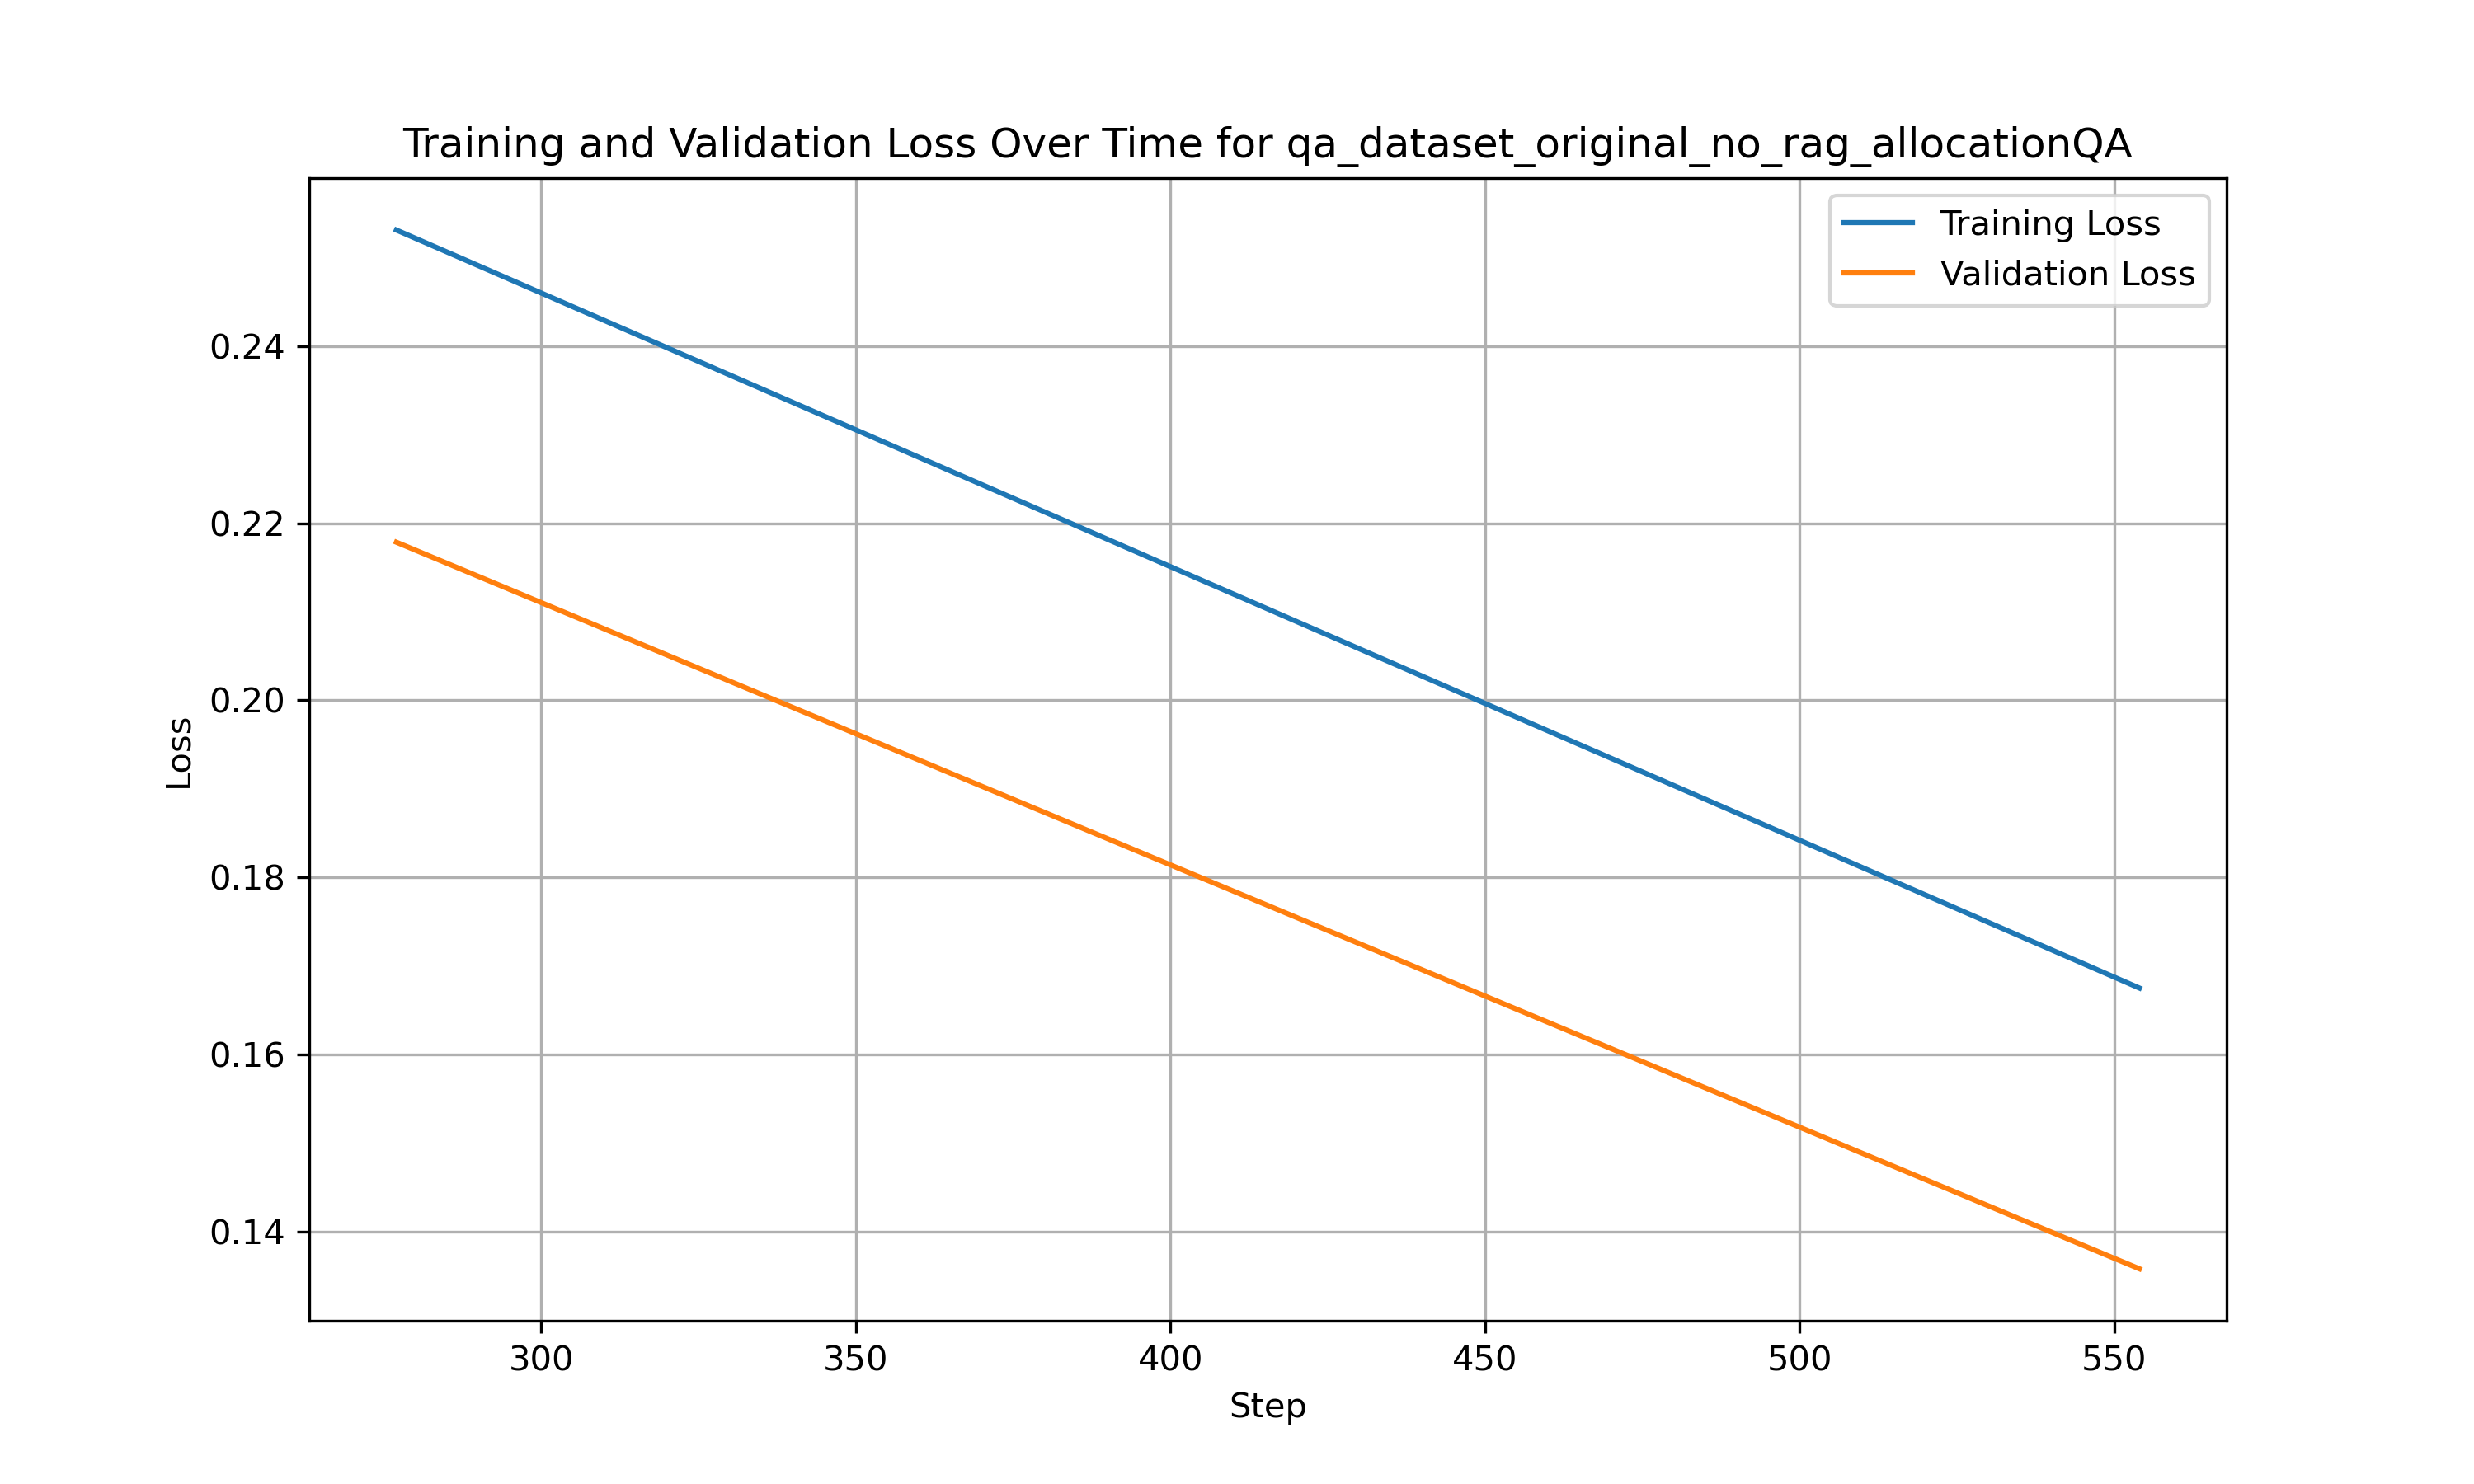
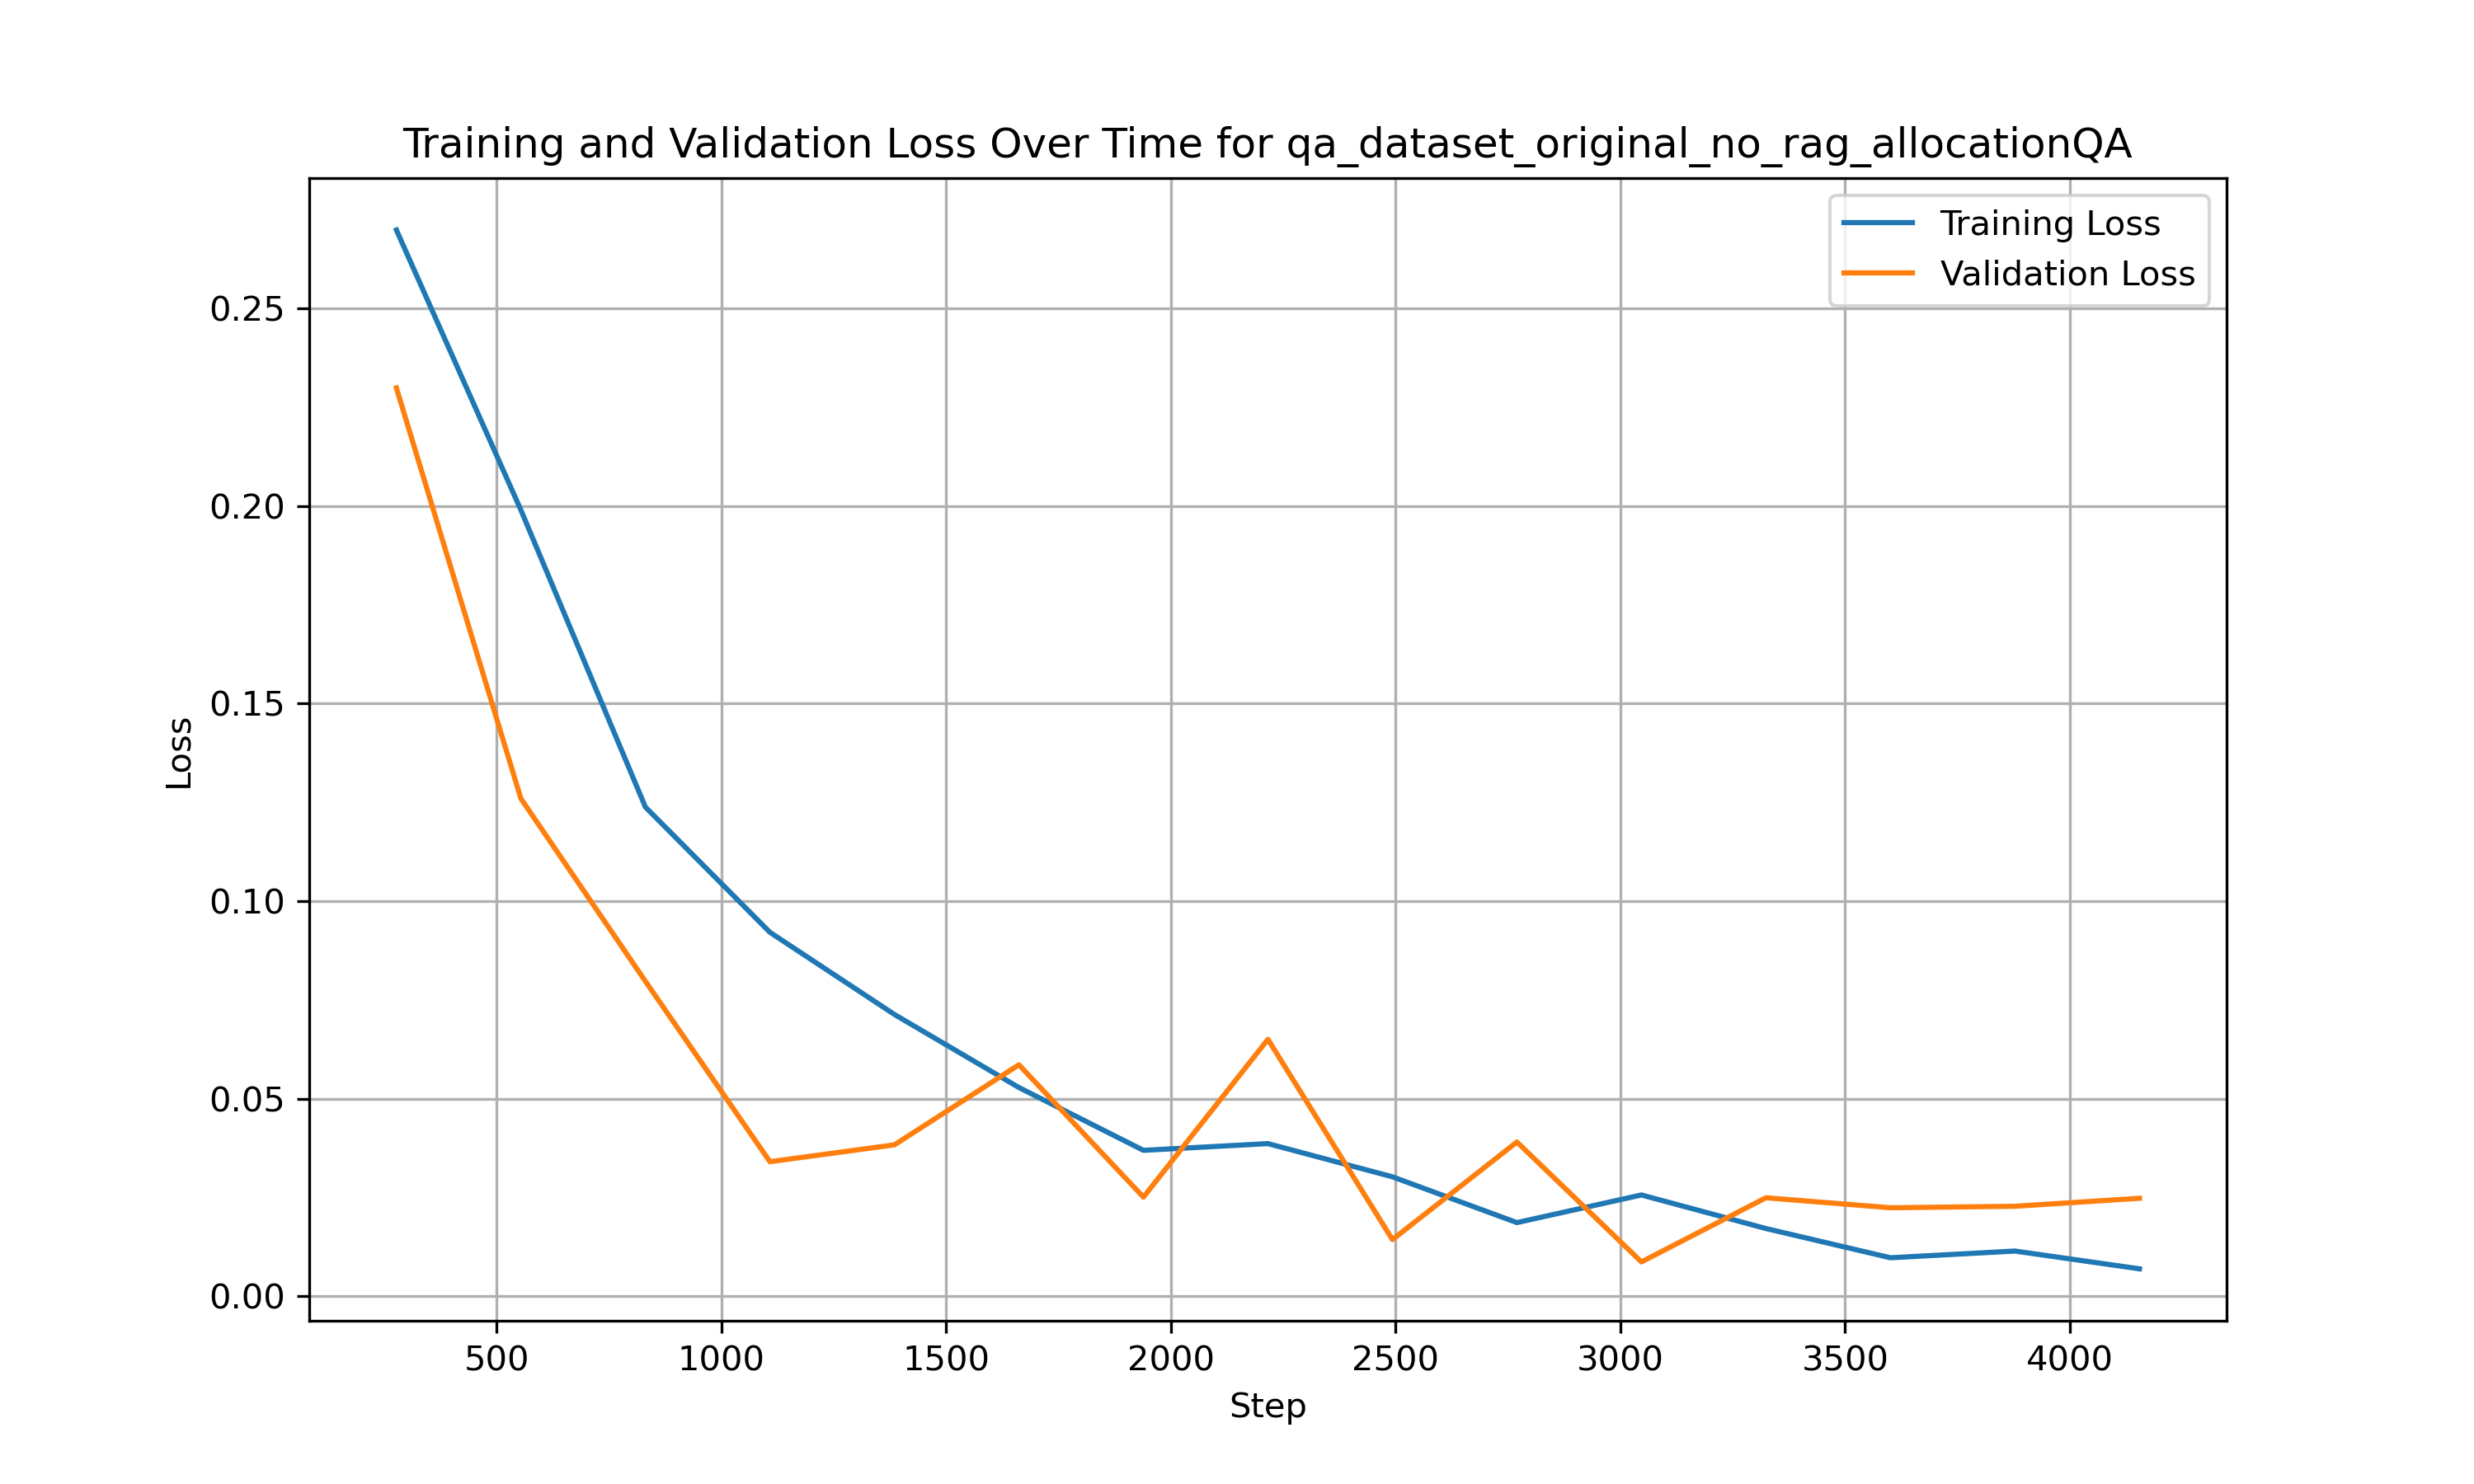
outputs for 15 epochs

diff --git a/evaluate_models.py b/evaluate_models.py
@@ -150,7 +150,8 @@ def eval_models(dataset, dataset_name):
         dataset_name = dataset_name.split(".")[0]
         dataset_name = dataset_name.split("/")[2:]
         dataset_name = "_".join(dataset_name)
-        os.makedirs("/home/sagemaker-user/llm-goal-scope/data/qa_dataset/results/" + dataset_name + "/", exist_ok=True)
+        fpath = "/home/sagemaker-user/llm-goal-scope/data/qa_dataset/results/" + dataset_name + "/"
+        os.makedirs(fpath, exist_ok=True)
 
         # training parameters
         training_args = TrainingArguments(
@@ -158,7 +159,7 @@ def eval_models(dataset, dataset_name):
             learning_rate=2e-5,
             per_device_train_batch_size=3,
             per_device_eval_batch_size=3,
-            num_train_epochs=2,
+            num_train_epochs=15,
             weight_decay=0.01,
             eval_strategy="epoch",
             logging_strategy='epoch',
@@ -168,7 +169,7 @@ def eval_models(dataset, dataset_name):
         )
         trainer = CustomLossTrainer(
             model=model,
-            args=training_args,
+            args=training_argteas,
             train_dataset=tokenized_dataset["train"],
             eval_dataset=tokenized_dataset["valid"],
             tokenizer=tokenizer,
@@ -183,6 +184,7 @@ def eval_models(dataset, dataset_name):
         # eval
         print("test dataset evaluation")
         predictions_output = trainer.predict(tokenized_dataset["test"])
+        eval_metrics = predictions_output.metrics
 
         # confusion matrix converts probabilities based on a threshold value and then take the sigmoid of the outputs
         # TODO: make a histogram to get a better threshold value for multilabel indicators
@@ -193,8 +195,7 @@ def eval_models(dataset, dataset_name):
             disp = ConfusionMatrixDisplay(confusion_matrix=cm, display_labels=['Negative', 'Positive'])
             disp.plot(cmap='Blues', values_format='d')
             plt.title(f'Confusion Matrix for {classes[i]} class for ' + str(dataset_name))
-            plt.savefig(
-                "/home/sagemaker-user/data/qa_dataset/results/" + dataset_name + f'/Confusion asdf Matrix for {classes[i].replace("/", "")} class.png',
+            plt.savefig(fpath + f'/Confusion Matrix for {classes[i].replace("/", "")} class.png',
                 dpi=300)
             plt.show()
 
@@ -204,24 +205,19 @@ def eval_models(dataset, dataset_name):
             else:
                 ap = np.nan
             ap_scores.append(ap)
-            print(f"Average Precision for Label {classes[i]}: {ap:.4f}")
+            eval_metrics[f"Average Precision for Label {classes[i]}"] =  f"{ap:.4f}"
         print("saved confusion matrices")
 
         # Calculate Mean Average Precision (mAP)
         mAP = np.nanmean(ap_scores)
-        print(f"\nMean Average Precision (mAP): {mAP:.4f}")
+        eval_metrics["Mean Average Precision (mAP)"] = f"{mAP:.4f}"
 
         # record data
         if predictions_output.metrics:
-            print(dataset_name)
-            print("Metrics:", predictions_output.metrics)
-            print(os.getcwd())
-            with open("/llm-goal-scope/data/qa_dataset/results/" + dataset_name + '/test_metrics.csv', 'w', newline='', encoding='utf-8') as f:
+            with open(fpath + '/test_metrics.csv', 'w', newline='', encoding='utf-8') as f:
                 w = csv.writer(f)
-                w.writerows(predictions_output.metrics.items())
-                map_dict = {"Mean Average Precision (mAP)": f"{mAP:.4f}"}
-                w.writerows(map_dict.items())
-                print("metric records written out")
+                w.writerows(eval_metrics.items())
+                print("Saved Metrics for {dataset_name}:", eval_metrics)
 
     else:
         print("dataset missing:", str(dataset_name))